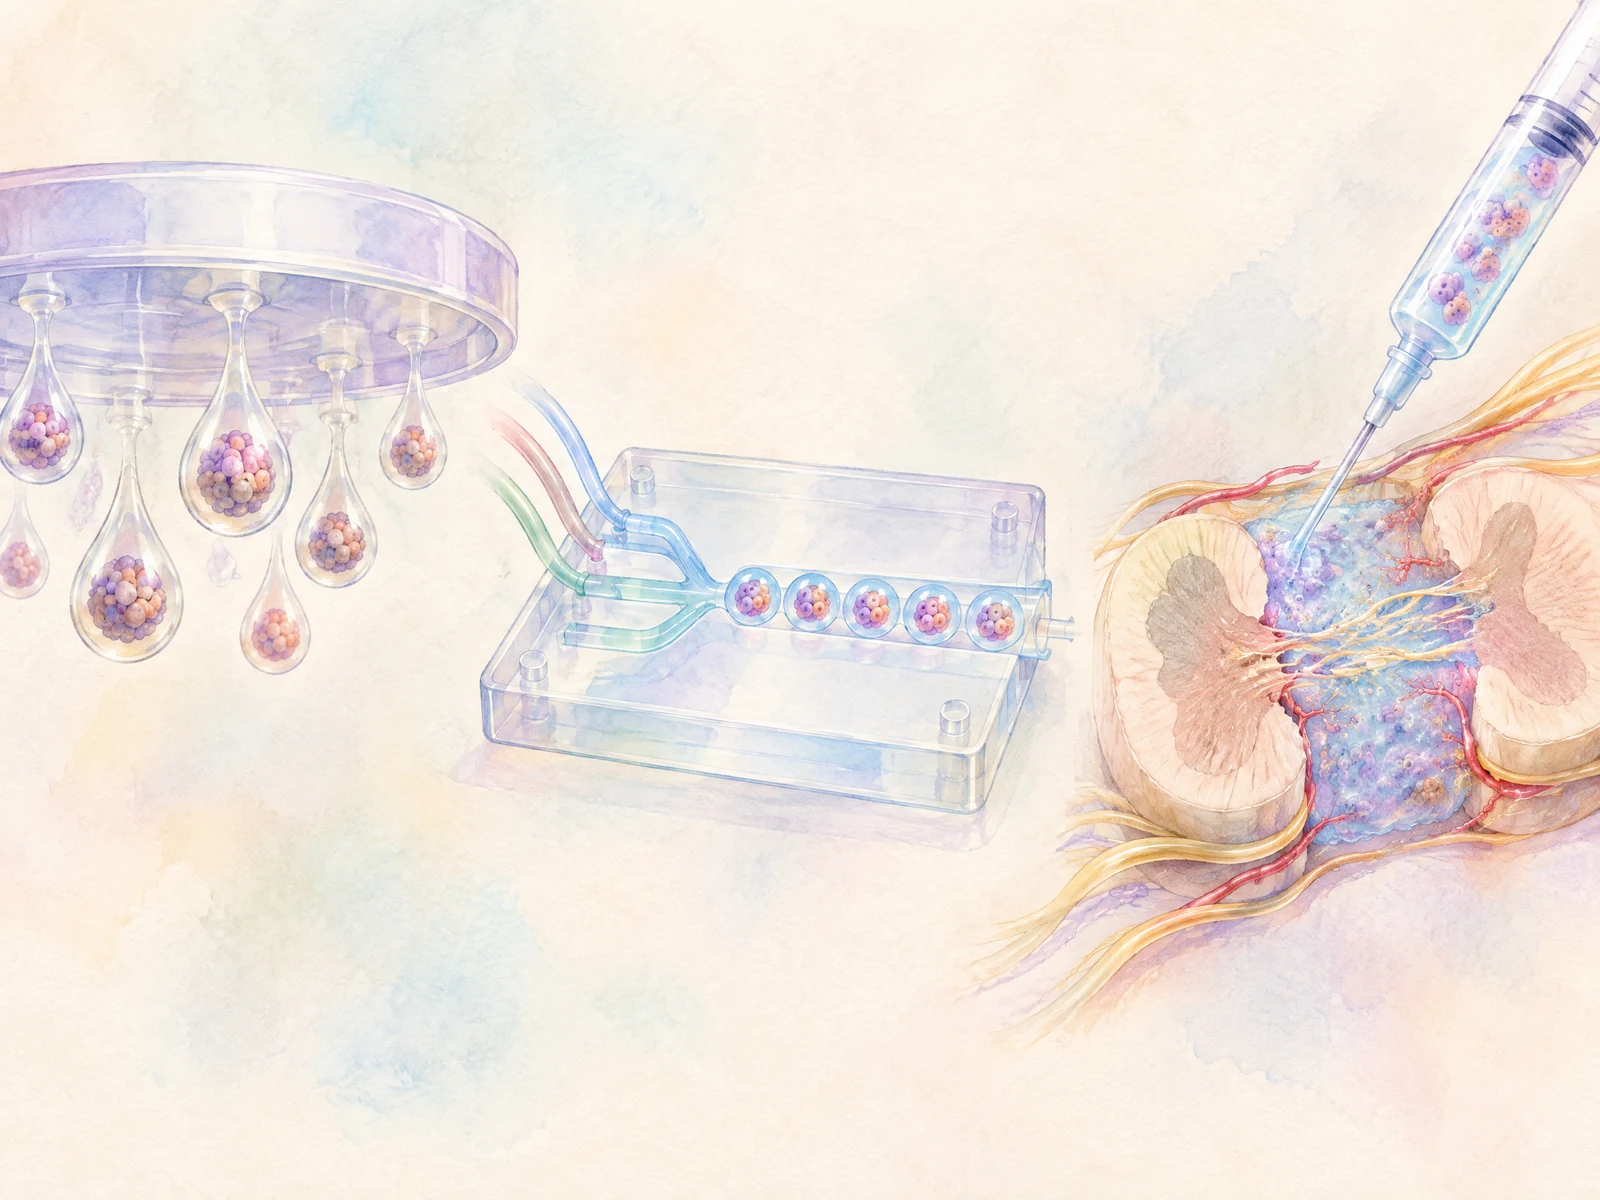
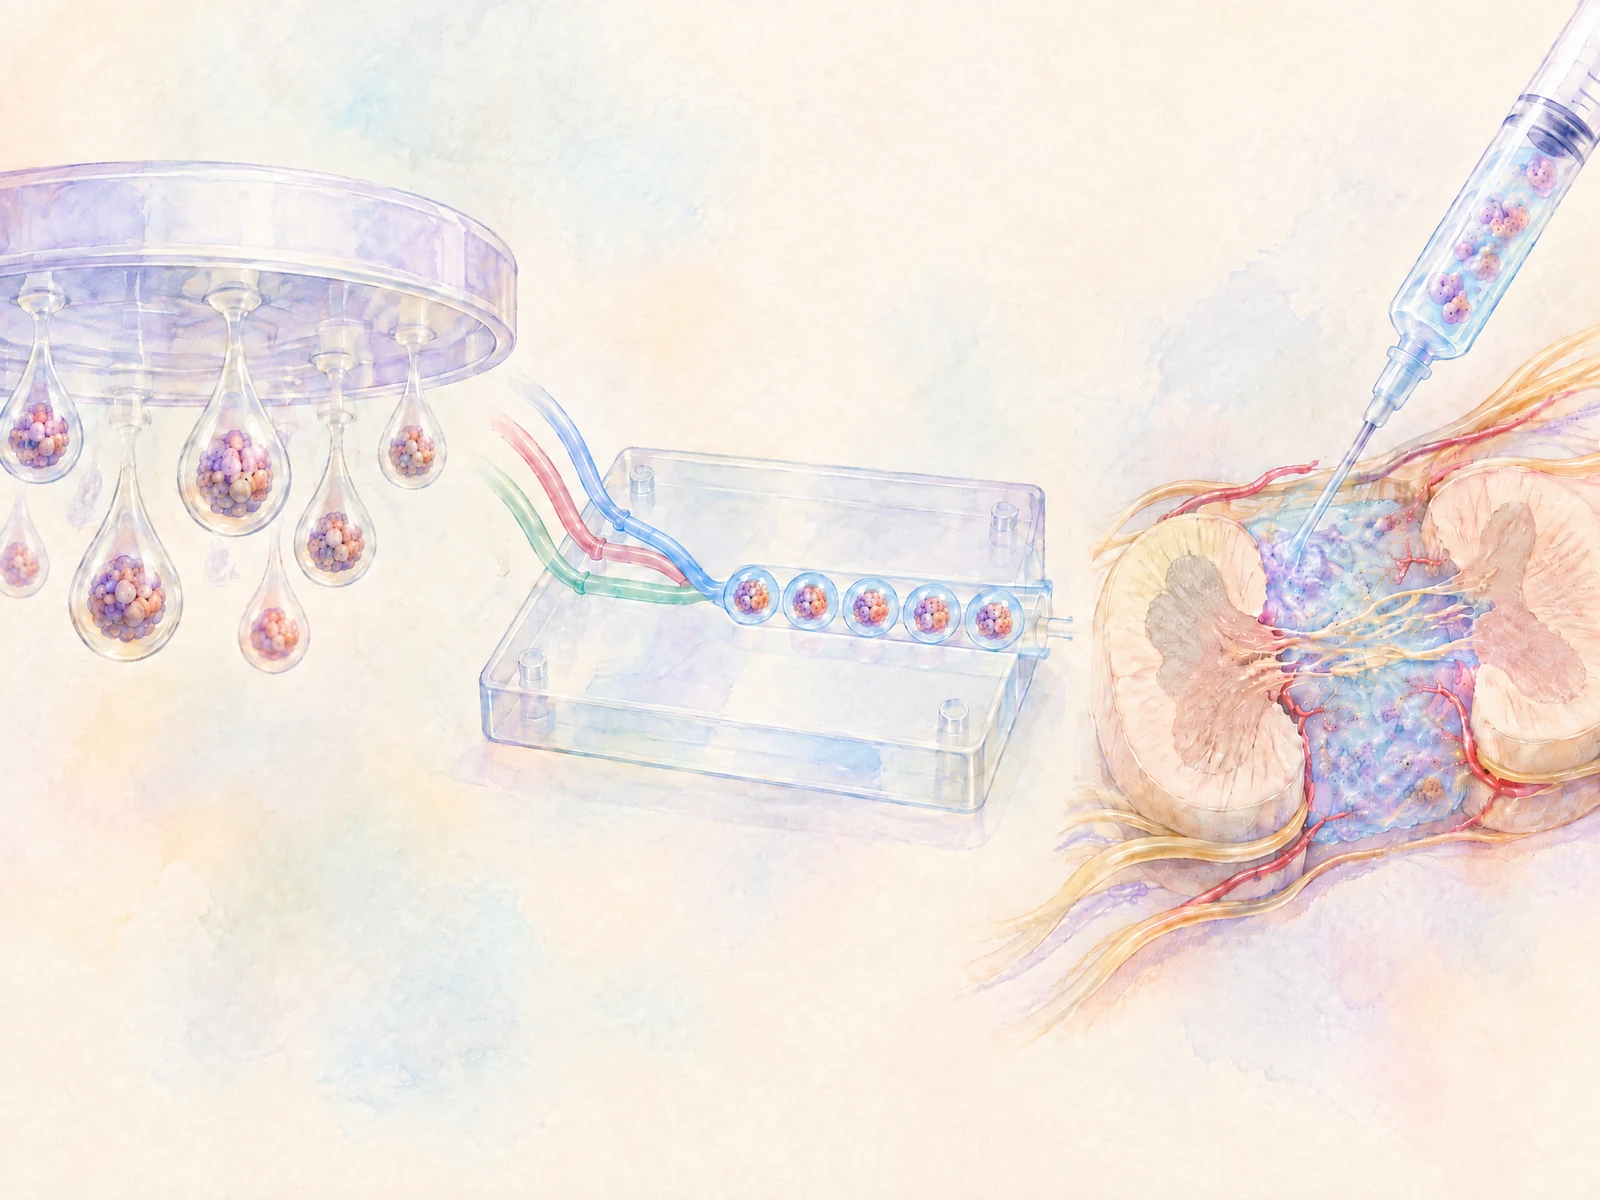
Fix the tubing and channel mismatch in the 3D stem cell research image
The microfluidic chip in the "3D stem cell culture and injectable matrices"
illustration had three tubes feeding a different number of channels, with a
dead-end stub. Re-edited it so each of the three tubes plugs into its own
channel and the channels merge into the main channel.

diff --git a/docs/research/index.html b/docs/research/index.html
@@ -97,8 +97,8 @@
 </section>
 <section class="section" id="stem-cell-3d">
   <div class="container theme-detail has-figure">
-    <a class="theme-figure" href="../static/img/research/stem-cell-3d.webp?v=548113d5" data-zoom>
-      <img src="../static/img/research/stem-cell-3d-sm.webp?v=2f34d3dc" srcset="../static/img/research/stem-cell-3d-sm.webp?v=2f34d3dc 900w, ../static/img/research/stem-cell-3d.webp?v=548113d5 1600w" sizes="(max-width: 760px) 92vw, 460px" alt="Illustration: 3D stem cell culture and injectable matrices" width="900" height="675" loading="lazy" decoding="async">
+    <a class="theme-figure" href="../static/img/research/stem-cell-3d.webp?v=fcf095d6" data-zoom>
+      <img src="../static/img/research/stem-cell-3d-sm.webp?v=775ebaf2" srcset="../static/img/research/stem-cell-3d-sm.webp?v=775ebaf2 900w, ../static/img/research/stem-cell-3d.webp?v=fcf095d6 1600w" sizes="(max-width: 760px) 92vw, 460px" alt="Illustration: 3D stem cell culture and injectable matrices" width="900" height="675" loading="lazy" decoding="async">
     </a>
     <div class="theme-body">
       <h2>3D stem cell culture and injectable matrices</h2>

diff --git a/docs/zh/research/index.html b/docs/zh/research/index.html
@@ -98,8 +98,8 @@
 </section>
 <section class="section" id="stem-cell-3d">
   <div class="container theme-detail has-figure">
-    <a class="theme-figure" href="../../static/img/research/stem-cell-3d.webp?v=548113d5" data-zoom>
-      <img src="../../static/img/research/stem-cell-3d-sm.webp?v=2f34d3dc" srcset="../../static/img/research/stem-cell-3d-sm.webp?v=2f34d3dc 900w, ../../static/img/research/stem-cell-3d.webp?v=548113d5 1600w" sizes="(max-width: 760px) 92vw, 460px" alt="示意圖：3D 幹細胞培養與可注射基質" width="900" height="675" loading="lazy" decoding="async">
+    <a class="theme-figure" href="../../static/img/research/stem-cell-3d.webp?v=fcf095d6" data-zoom>
+      <img src="../../static/img/research/stem-cell-3d-sm.webp?v=775ebaf2" srcset="../../static/img/research/stem-cell-3d-sm.webp?v=775ebaf2 900w, ../../static/img/research/stem-cell-3d.webp?v=fcf095d6 1600w" sizes="(max-width: 760px) 92vw, 460px" alt="示意圖：3D 幹細胞培養與可注射基質" width="900" height="675" loading="lazy" decoding="async">
     </a>
     <div class="theme-body">
       <h2>3D 幹細胞培養與可注射基質</h2>

diff --git a/docs/zh/index.html b/docs/zh/index.html
@@ -98,7 +98,7 @@
       </article>
       <article class="card theme-card has-thumb">
         <a class="theme-thumb" href="../zh/research/#stem-cell-3d" tabindex="-1" aria-hidden="true">
-          <img src="../static/img/research/stem-cell-3d-xs.webp?v=d8a17cfd" srcset="../static/img/research/stem-cell-3d-xs.webp?v=d8a17cfd 480w, ../static/img/research/stem-cell-3d-sm.webp?v=2f34d3dc 900w" sizes="(max-width: 640px) calc(100vw - 40px), (max-width: 1100px) calc(50vw - 30px), 255px" alt="" width="480" height="320" loading="lazy" decoding="async">
+          <img src="../static/img/research/stem-cell-3d-xs.webp?v=ba92623f" srcset="../static/img/research/stem-cell-3d-xs.webp?v=ba92623f 480w, ../static/img/research/stem-cell-3d-sm.webp?v=775ebaf2 900w" sizes="(max-width: 640px) calc(100vw - 40px), (max-width: 1100px) calc(50vw - 30px), 255px" alt="" width="480" height="320" loading="lazy" decoding="async">
         </a>
         <div class="theme-card-body">
           <h3>3D 幹細胞培養與可注射基質</h3>

diff --git a/docs/index.html b/docs/index.html
@@ -97,7 +97,7 @@
       </article>
       <article class="card theme-card has-thumb">
         <a class="theme-thumb" href="research/#stem-cell-3d" tabindex="-1" aria-hidden="true">
-          <img src="static/img/research/stem-cell-3d-xs.webp?v=d8a17cfd" srcset="static/img/research/stem-cell-3d-xs.webp?v=d8a17cfd 480w, static/img/research/stem-cell-3d-sm.webp?v=2f34d3dc 900w" sizes="(max-width: 640px) calc(100vw - 40px), (max-width: 1100px) calc(50vw - 30px), 255px" alt="" width="480" height="320" loading="lazy" decoding="async">
+          <img src="static/img/research/stem-cell-3d-xs.webp?v=ba92623f" srcset="static/img/research/stem-cell-3d-xs.webp?v=ba92623f 480w, static/img/research/stem-cell-3d-sm.webp?v=775ebaf2 900w" sizes="(max-width: 640px) calc(100vw - 40px), (max-width: 1100px) calc(50vw - 30px), 255px" alt="" width="480" height="320" loading="lazy" decoding="async">
         </a>
         <div class="theme-card-body">
           <h3>3D stem cell culture and injectable matrices</h3>
